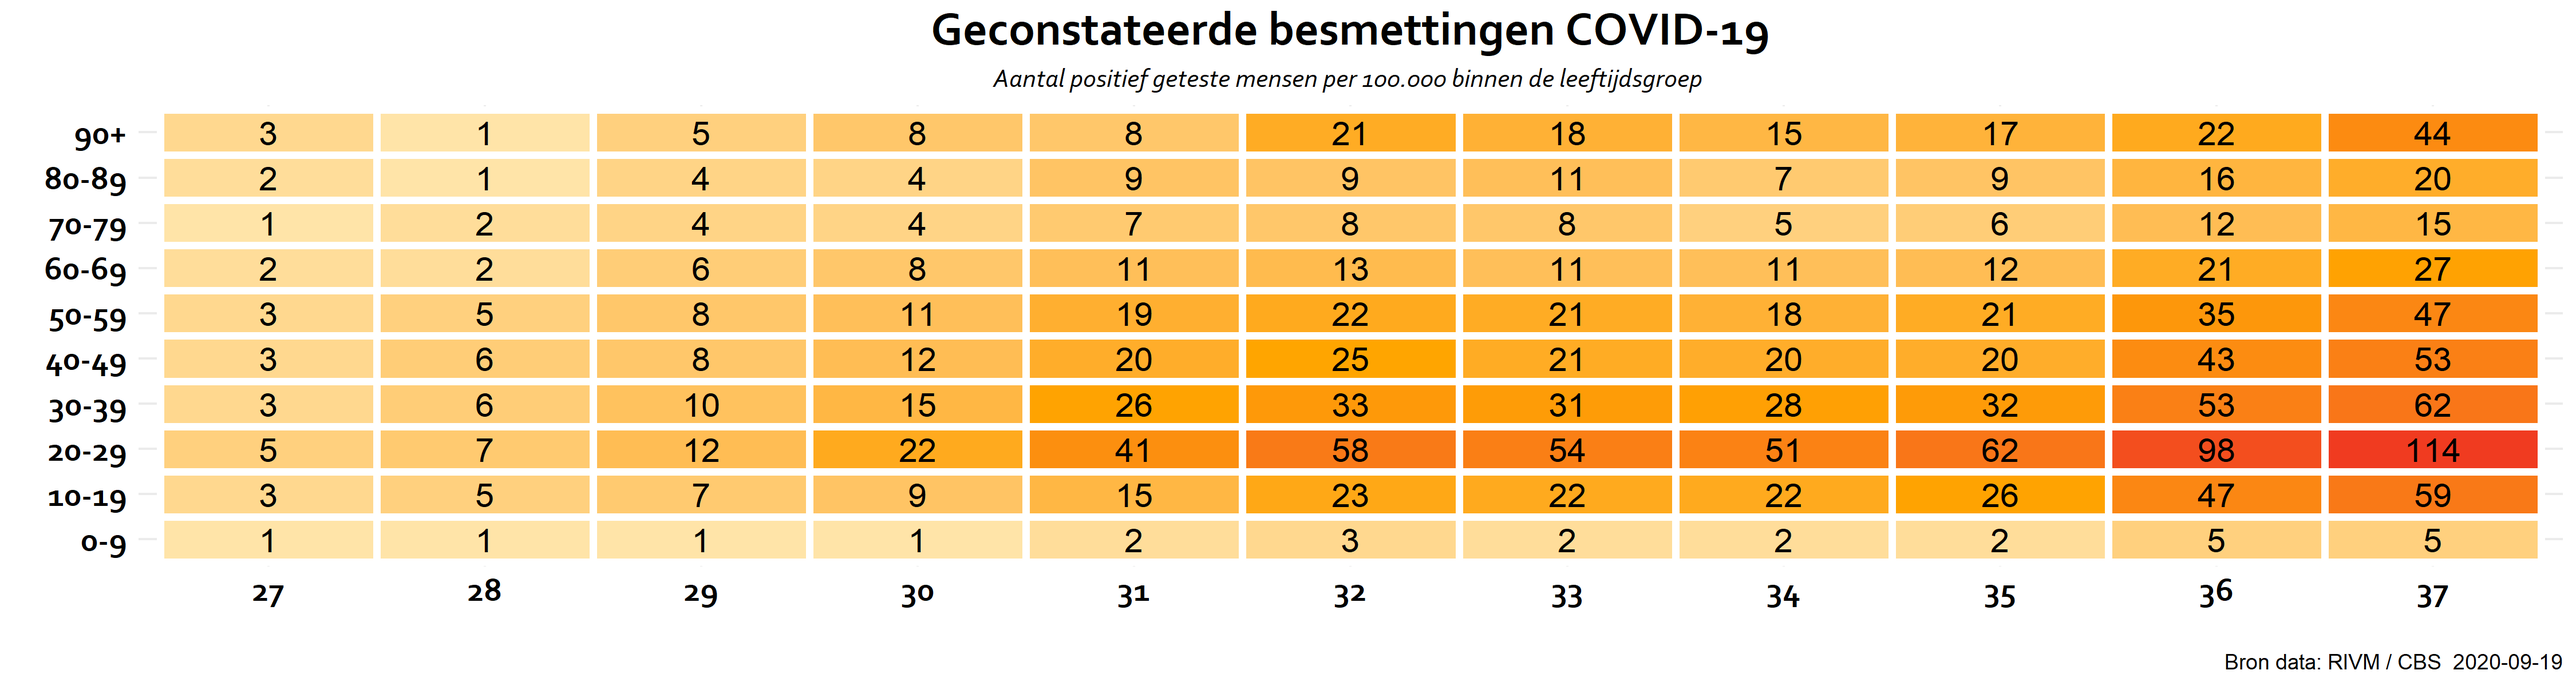
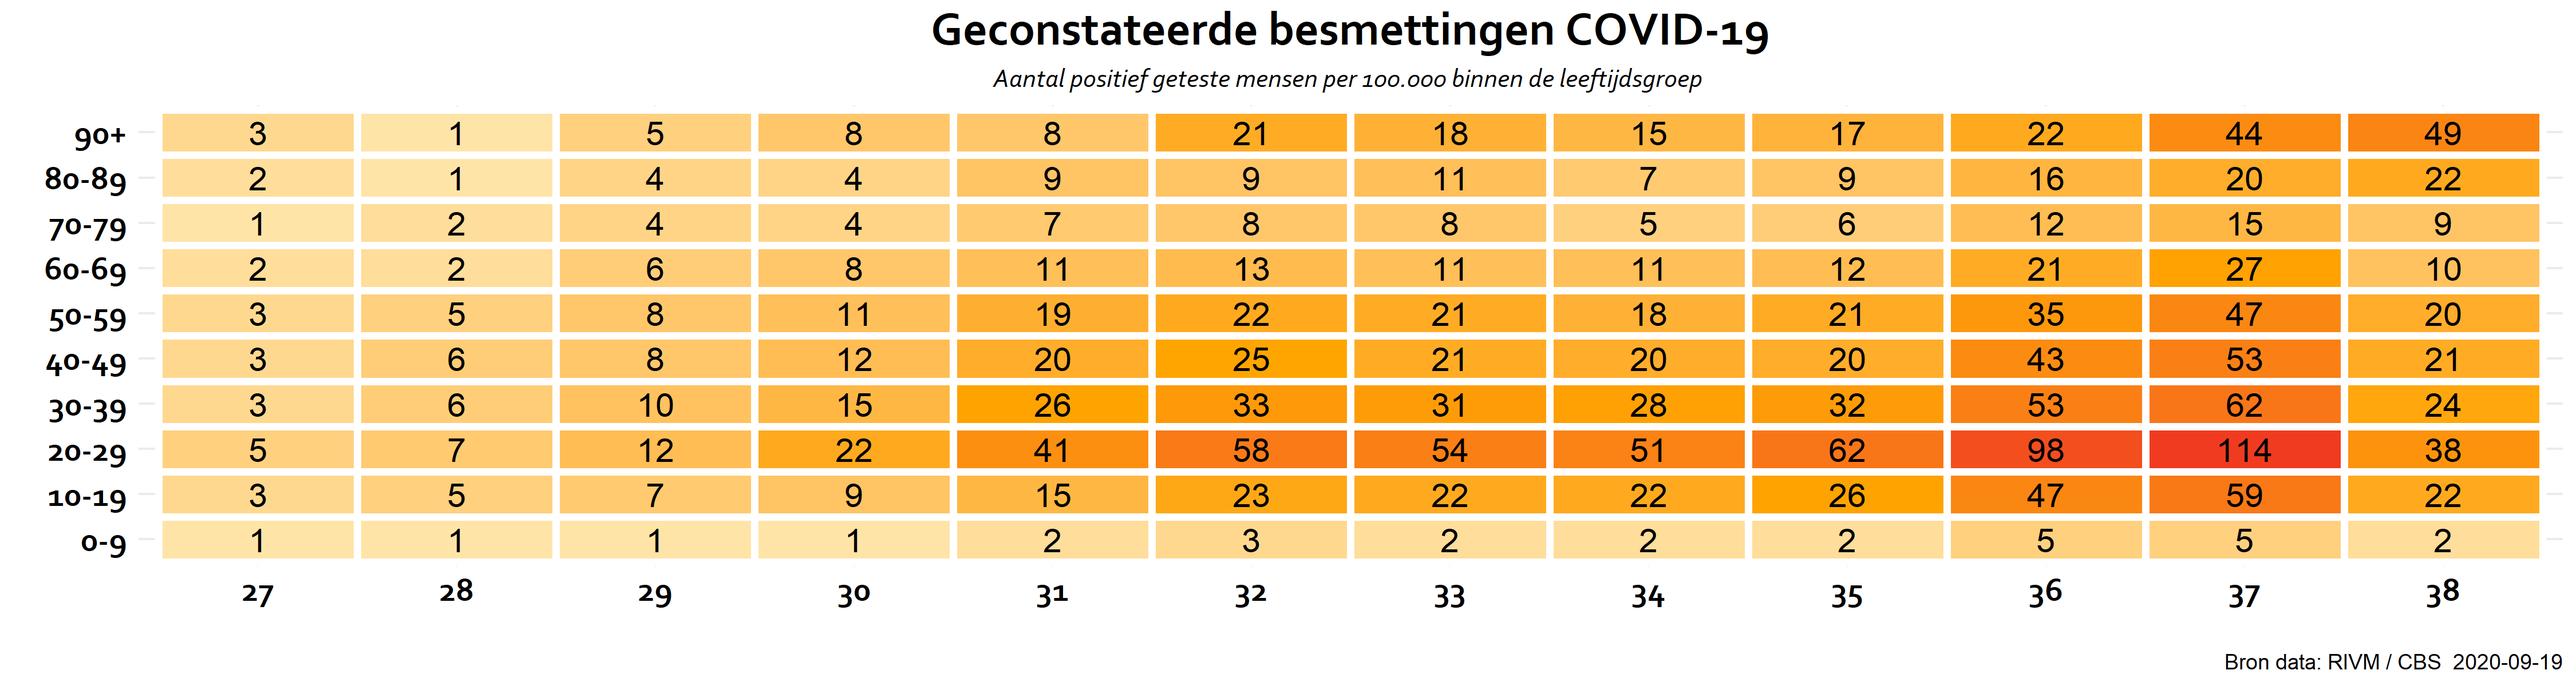
Update heatmap age-week 2020-09-19
Former-commit-id: 8bf87aa0ef5a273c9d595d04b3324719d6d62207

diff --git a/workflow/main.html b/workflow/main.html
@@ -57,7 +57,7 @@
 <div id="section-voorbeeld" class="section level3">
 <h3>Voorbeeld:</h3>
 <!-- html table generated in R 4.0.2 by xtable 1.8-4 package -->
-<!-- Sat Sep 19 14:21:49 2020 -->
+<!-- Sat Sep 19 14:37:09 2020 -->
 <table border=0 class="example align-left">
 <tr>
 <td align="center">
@@ -90,7 +90,7 @@ Wat meer is dan de +7150 in de 7 dagen ervoor<br />
 <div id="section-landelijk" class="section level3">
 <h3>Landelijk:</h3>
 <!-- html table generated in R 4.0.2 by xtable 1.8-4 package -->
-<!-- Sat Sep 19 14:21:49 2020 -->
+<!-- Sat Sep 19 14:37:09 2020 -->
 <table border=0 class="align-left">
 <tr>
 <td align="center">
@@ -119,7 +119,7 @@ Wat meer is dan de +7150 in de 7 dagen ervoor<br />
 <div id="section-alert-niveaus" class="section level4">
 <h4>Alert niveaus</h4>
 <!-- html table generated in R 4.0.2 by xtable 1.8-4 package -->
-<!-- Sat Sep 19 14:21:50 2020 -->
+<!-- Sat Sep 19 14:37:09 2020 -->
 <table border="0">
 <tr>
 <td>
@@ -158,7 +158,7 @@ Wat meer is dan de +7150 in de 7 dagen ervoor<br />
 <div id="section-groei" class="section level4">
 <h4>Groei</h4>
 <!-- html table generated in R 4.0.2 by xtable 1.8-4 package -->
-<!-- Sat Sep 19 14:21:50 2020 -->
+<!-- Sat Sep 19 14:37:09 2020 -->
 <table border="0">
 <tr>
 <td>
@@ -197,7 +197,7 @@ Wat meer is dan de +7150 in de 7 dagen ervoor<br />
 <div id="section-top-15" class="section level4">
 <h4>Top 15</h4>
 <!-- html table generated in R 4.0.2 by xtable 1.8-4 package -->
-<!-- Sat Sep 19 14:21:50 2020 -->
+<!-- Sat Sep 19 14:37:09 2020 -->
 <table border=0 >
 <tr>
 <td align="center">
@@ -475,7 +475,7 @@ Wat meer is dan de +7150 in de 7 dagen ervoor<br />
 <div id="section-hoogste-toenames-van-vandaag" class="section level3">
 <h3>Hoogste toenames van vandaag:</h3>
 <!-- html table generated in R 4.0.2 by xtable 1.8-4 package -->
-<!-- Sat Sep 19 14:21:50 2020 -->
+<!-- Sat Sep 19 14:37:09 2020 -->
 <table border=0 >
 <tr>
 <td align="center">
@@ -1725,7 +1725,7 @@ Wat meer is dan de +7150 in de 7 dagen ervoor<br />
 <div id="section-alle-gemeentes" class="section level3">
 <h3>Alle gemeentes</h3>
 <!-- html table generated in R 4.0.2 by xtable 1.8-4 package -->
-<!-- Sat Sep 19 14:21:50 2020 -->
+<!-- Sat Sep 19 14:37:09 2020 -->
 <table border=0 >
 <tr>
 <td align="center">
@@ -9196,7 +9196,7 @@ Wat meer is dan de +7150 in de 7 dagen ervoor<br />
 <div id="section-landelijk-1" class="section level3">
 <h3>Landelijk:</h3>
 <!-- html table generated in R 4.0.2 by xtable 1.8-4 package -->
-<!-- Sat Sep 19 14:21:50 2020 -->
+<!-- Sat Sep 19 14:37:09 2020 -->
 <table border=0 class="align-left">
 <tr>
 <td align="center">
@@ -9223,7 +9223,7 @@ Wat meer is dan de +7150 in de 7 dagen ervoor<br />
 <div id="section-toenames-van-vandaag" class="section level3">
 <h3>Toenames van vandaag:</h3>
 <!-- html table generated in R 4.0.2 by xtable 1.8-4 package -->
-<!-- Sat Sep 19 14:21:50 2020 -->
+<!-- Sat Sep 19 14:37:09 2020 -->
 <table border=0 >
 <tr>
 <td align="center">
@@ -9540,7 +9540,7 @@ Wat meer is dan de +7150 in de 7 dagen ervoor<br />
 <div id="section-alle-gemeentes-1" class="section level3">
 <h3>Alle gemeentes</h3>
 <!-- html table generated in R 4.0.2 by xtable 1.8-4 package -->
-<!-- Sat Sep 19 14:21:51 2020 -->
+<!-- Sat Sep 19 14:37:10 2020 -->
 <table border=0 >
 <tr>
 <td align="center">
@@ -15946,7 +15946,7 @@ Wat meer is dan de +7150 in de 7 dagen ervoor<br />
 <div id="section-landelijk-2" class="section level3">
 <h3>Landelijk:</h3>
 <!-- html table generated in R 4.0.2 by xtable 1.8-4 package -->
-<!-- Sat Sep 19 14:21:51 2020 -->
+<!-- Sat Sep 19 14:37:10 2020 -->
 <table border=0 class="align-left">
 <tr>
 <td align="center">
@@ -15973,7 +15973,7 @@ Wat meer is dan de +7150 in de 7 dagen ervoor<br />
 <div id="section-toenames-van-vandaag-1" class="section level3">
 <h3>Toenames van vandaag:</h3>
 <!-- html table generated in R 4.0.2 by xtable 1.8-4 package -->
-<!-- Sat Sep 19 14:21:51 2020 -->
+<!-- Sat Sep 19 14:37:10 2020 -->
 <table border=0 >
 <tr>
 <td align="center">
@@ -16056,7 +16056,7 @@ Wat meer is dan de +7150 in de 7 dagen ervoor<br />
 <div id="section-alle-gemeentes-2" class="section level3">
 <h3>Alle gemeentes</h3>
 <!-- html table generated in R 4.0.2 by xtable 1.8-4 package -->
-<!-- Sat Sep 19 14:21:51 2020 -->
+<!-- Sat Sep 19 14:37:10 2020 -->
 <table border=0 >
 <tr>
 <td align="center">
